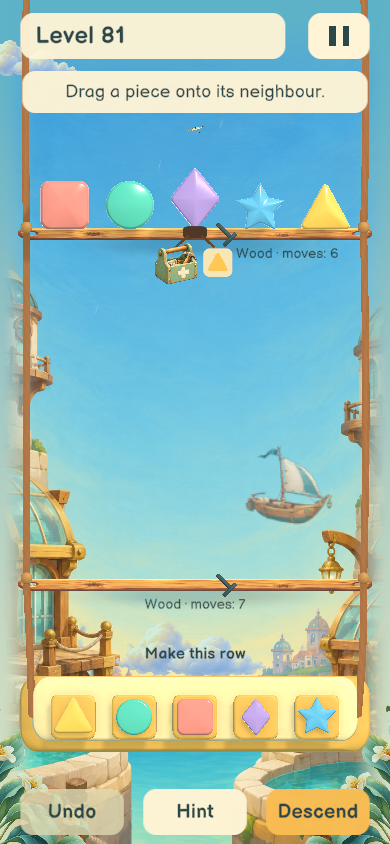
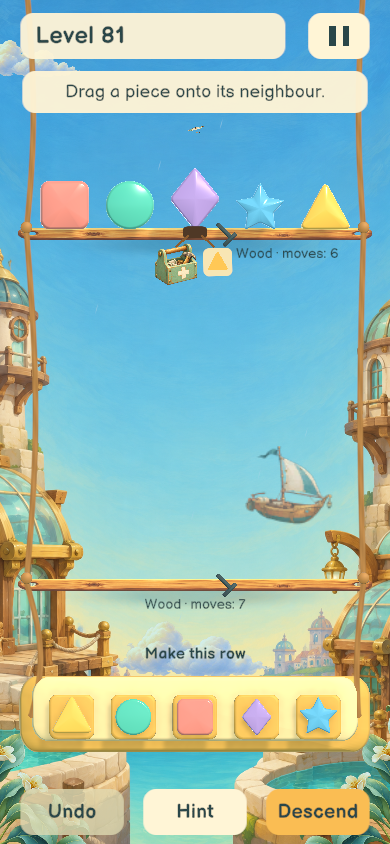
Polish gameplay ropes, letter tiles and backdrop

diff --git a/CascadeUnity/Assets/_Cascade/Presentation/ToyMachineView.Ropes.cs b/CascadeUnity/Assets/_Cascade/Presentation/ToyMachineView.Ropes.cs
@@ -4,30 +4,19 @@ namespace Cascade.Presentation
     public sealed partial class ToyMachineView
     {
         Material continuousRopeMaterial;
-        Texture2D railGrain;
         readonly LineRenderer[] suspension=new LineRenderer[2];
         readonly Vector3[] ropePoints=new Vector3[121];
+        readonly float[,] ropeBow=new float[2,5],ropeVelocity=new float[2,5];
         void InitializeRopeRig()
         {
             if(continuousRopeMaterial==null){
-                railGrain=new Texture2D(128,16,TextureFormat.RGB24,false,true){name="Carved rail grain",wrapMode=TextureWrapMode.Repeat,filterMode=FilterMode.Bilinear};
-                var pixels=new Color32[128*16];
-                for(int y=0;y<16;y++)for(int x=0;x<128;x++){
-                    float grain=Mathf.Sin(y*2.4f+Mathf.Sin(x*.095f+y)*.8f)*.07f+Mathf.Sin(x*.31f+y*.57f)*.025f;
-                    float edge=1-Mathf.Abs(y-7.5f)/7.5f;
-                    float value=Mathf.Clamp01(.76f+grain+edge*.10f);
-                    pixels[y*128+x]=new Color32((byte)(value*255),(byte)(value*228),(byte)(value*190),255);
-                }
-                railGrain.SetPixels32(pixels);railGrain.Apply(false,true);
-                continuousRopeMaterial=new Material(Shader.Find("Universal Render Pipeline/Lit")){name="Carved flexible wooden rails"};
-                continuousRopeMaterial.SetTexture("_BaseMap",railGrain);
-                continuousRopeMaterial.SetColor("_BaseColor",new Color(.66f,.43f,.23f));
-                continuousRopeMaterial.SetFloat("_Smoothness",.29f);
+                continuousRopeMaterial=new Material(Resources.Load<Shader>("CascadeArt/HempRope")){name="Soft braided suspension rope"};
+                continuousRopeMaterial.SetColor("_Color",new Color(.77f,.56f,.31f));
             }
             for(int side=0;side<2;side++) {
-                var go=new GameObject(side==0?"Left articulated wooden rail":"Right articulated wooden rail",typeof(LineRenderer));go.transform.SetParent(machine,false);
+                var go=new GameObject(side==0?"Left braided rope":"Right braided rope",typeof(LineRenderer));go.transform.SetParent(machine,false);
                 var line=go.GetComponent<LineRenderer>();suspension[side]=line;line.sharedMaterial=continuousRopeMaterial;line.useWorldSpace=true;
-                line.generateLightingData=true;line.startWidth=line.endWidth=.086f;line.numCapVertices=8;line.numCornerVertices=8;line.textureMode=LineTextureMode.Tile;line.alignment=LineAlignment.View;
+                line.startWidth=line.endWidth=.09f;line.numCapVertices=8;line.numCornerVertices=8;line.textureMode=LineTextureMode.Stretch;line.alignment=LineAlignment.View;
                 line.shadowCastingMode=UnityEngine.Rendering.ShadowCastingMode.Off;line.receiveShadows=false;
             }
         }
@@ -36,7 +25,6 @@ namespace Cascade.Presentation
             if(floors.Count==0||suspension[0]==null)return;
             for(int side=0;side<2;side++) {
                 var line=suspension[side];line.enabled=Frame.Status==Cascade.Domain.PuzzleStatus.Playing;
-                int pointCount=0;
                 float sign=side==0?-1:1;
                 var first=floors[0].board;float x=first.basePosition.x+sign*first.baseScale.x*.475f;
                 Vector3 previous=new Vector3(x,viewCamera.transform.position.y+viewCamera.orthographicSize+.2f,.10f);int index=0;
@@ -50,15 +38,21 @@ namespace Cascade.Presentation
                         lowerAnchor.GetWorldCorners(corners);next=new Vector3(Mathf.Lerp(corners[0].x,corners[2].x,side==0?.035f:.965f),Mathf.Lerp(corners[0].y,corners[2].y,.48f),.10f);
                     }
                     float span=Vector3.Distance(previous,next);
+                    float wind=reducedMotion?0:Mathf.Sin(windTime*.7f+segment*.64f+side*.5f)*.045f;
+                    float wanted=reducedMotion?0:-sign*.08f+wind+(next.x-previous.x)*.08f;
+                    float bow=ropeBow[side,segment],velocity=ropeVelocity[side,segment];
+                    Spring(ref bow,ref velocity,wanted,28,8,Mathf.Clamp(Time.unscaledDeltaTime,0,.05f));
+                    ropeBow[side,segment]=bow;ropeVelocity[side,segment]=velocity;
                     for(int p=1;p<=24;p++) {
                         float t=p/24f;var point=Vector3.Lerp(previous,next,t);
-                        float wave=reducedMotion?0:Mathf.Sin(windTime*.85f+segment*.7f+side)*.018f*Mathf.Min(1,span);
-                        point.x+=Mathf.Sin(t*Mathf.PI)*(sign*.01f+wave);ropePoints[index++]=point;
+                        point.x+=Mathf.Sin(t*Mathf.PI)*bow;
+                        point.y-=Mathf.Sin(t*Mathf.PI)*Mathf.Min(.07f,span*.035f);
+                        ropePoints[index++]=point;
                     }
                     previous=next;
                 }
-                pointCount=index;line.positionCount=pointCount;
-                for(int p=0;p<pointCount;p++)line.SetPosition(p,ropePoints[p]);
+                line.positionCount=index;
+                for(int p=0;p<index;p++)line.SetPosition(p,ropePoints[p]);
             }
         }
     }

diff --git a/CascadeUnity/Assets/_Cascade/Editor/Playable/PolishCapture.cs b/CascadeUnity/Assets/_Cascade/Editor/Playable/PolishCapture.cs
@@ -19,6 +19,15 @@ namespace Cascade.Editor.Playable
   public static void FinishPass(){if(!EditorApplication.isPlaying||EditorUtility.scriptCompilationFailed||EditorApplication.isCompiling)throw new InvalidOperationException("Compiled Play Mode required");UnityEngine.Object.FindFirstObjectByType<CascadeGame>().StartCoroutine(FinishShots());}
   public static void MenuHeaderCheck(){if(!EditorApplication.isPlaying||EditorUtility.scriptCompilationFailed||EditorApplication.isCompiling)throw new InvalidOperationException("Compiled Play Mode required");UnityEngine.Object.FindFirstObjectByType<CascadeGame>().StartCoroutine(HeaderShots());}
   public static void LagoonCheck(){if(!EditorApplication.isPlaying||EditorUtility.scriptCompilationFailed||EditorApplication.isCompiling)throw new InvalidOperationException("Compiled Play Mode required");UnityEngine.Object.FindFirstObjectByType<CascadeGame>().StartCoroutine(LagoonShot());}
+  public static void SurfaceCheck(){if(!EditorApplication.isPlaying||EditorUtility.scriptCompilationFailed||EditorApplication.isCompiling)throw new InvalidOperationException("Compiled Play Mode required");UnityEngine.Object.FindFirstObjectByType<CascadeGame>().StartCoroutine(SurfaceShots());}
+  static IEnumerator SurfaceShots()
+  {
+   var g=UnityEngine.Object.FindFirstObjectByType<CascadeGame>();Field(g,"persistenceReady",false);g.Feedback.SoundEnabled=g.Feedback.MusicEnabled=false;g.ReducedMotion=false;g.SetUiLocale("en");
+   if(g.Catalog.TryGetLocalizedBinding("C38","en",out var words))g.LoadLevel(words.Definition,"en");else g.LoadNode("C38");g.ShowGame();yield return Shot("surface-letters");
+   g.LoadNode("C81");g.ShowGame();yield return Shot("surface-lagoon");
+   g.LoadNode("C13");g.ShowGame();yield return Shot("surface-devices");
+   Debug.Log("CASCADE surface check: letters, lagoon and devices captured");
+  }
   public static void VerifyOneSwap()
   {
    var g=UnityEngine.Object.FindFirstObjectByType<CascadeGame>();Field(g,"persistenceReady",false);g.LoadNode("C13");g.ShowGame();g.SendMessage("OnApplicationFocus",true);g.Interaction.SetSuspended(false);
@@ -79,7 +88,7 @@ namespace Cascade.Editor.Playable
     for(int frame=0;frame<32;frame++){
      yield return new WaitForEndOfFrame();camera.Render();RenderTexture.active=rt;pixels.ReadPixels(new Rect(0,0,390,844),0,0);pixels.Apply();
      File.WriteAllBytes(Path.Combine(folder,frame.ToString("00")+".png"),pixels.EncodeToPNG());
-     int points=g.Machine.GetComponentsInChildren<LineRenderer>().First(l=>l.name.Contains("wooden rail")).positionCount;
+     int points=g.Machine.GetComponentsInChildren<LineRenderer>().First(l=>l.name.Contains("braided rope")).positionCount;
      rows.AppendLine(frame+","+g.GetComponent<PuzzleEventPlayer>().CurrentEvent+","+g.Machine.TokenPose(0)+","+g.Machine.LoadedSag+","+points+","+g.Interaction.Attempt.CurrentStateHash);
      if(g.Interaction.Attempt.CurrentStateHash!=committed)throw new InvalidOperationException("Animation changed the committed puzzle state");
      yield return null;

diff --git a/CascadeUnity/Assets/_Cascade/Presentation/CascadeGame.Devices.cs b/CascadeUnity/Assets/_Cascade/Presentation/CascadeGame.Devices.cs
@@ -15,6 +15,8 @@ namespace Cascade.Presentation
             public Image icon;
             public TextMeshProUGUI caption;
             public ContactDefinition contact;
+            public float slotX,dockX,angle,angleVelocity;
+            public DemoLine leftStrap,rightStrap;
         }
         readonly List<RectTransform> deviceOverlays=new List<RectTransform>();
         readonly List<DeviceDock> deviceDocks = new List<DeviceDock>();
@@ -40,10 +42,12 @@ namespace Cascade.Presentation
                 // A wooden socket and its suspended tool share a real attachment point.
                 var socket=Rect("Device socket",card,new Vector2(slotX-.034f,.295f),new Vector2(slotX+.034f,.39f));
                 Background(socket,new Color(.31f,.22f,.15f),false).sprite=art.panel;
+                DemoLine leftStrap=null,rightStrap=null;
                 for(int side=-1;side<=1;side+=2) {
                     var strap=Rect("Device leather strap",card,Vector2.zero,Vector2.zero);
-                    Background(strap,new Color(.40f,.27f,.15f),false);
-                    strap.gameObject.AddComponent<DemoLine>().Initialize(card,new Vector2(slotX+side*.018f,.32f),new Vector2(x+side*.055f,.23f),2.5f);
+                    Background(strap,new Color(.55f,.36f,.18f),false);
+                    var line=strap.gameObject.AddComponent<DemoLine>();line.Initialize(card,new Vector2(slotX+side*.018f,.32f),new Vector2(x+side*.055f,.23f),2.2f);
+                    if(side<0)leftStrap=line;else rightStrap=line;
                 }
                 var button=Button(UiCopy.Raw("Device "+DeviceAsset(item.kind)),card,new Vector2(x,.07f),new Vector2(x,.07f),()=>OpenDevice(item.kind));
                 var root=(RectTransform)button.transform;root.sizeDelta=new Vector2(88,55);
@@ -55,7 +59,7 @@ namespace Cascade.Presentation
                 face.SetShape(art.SymbolMesh(item.contact.RequiredSymbol),art.SymbolMaterial(item.contact.RequiredSymbol).GetColor("_BaseColor"));face.raycastTarget=false;
                 if(item.contact.RequiredSymbol.Kind==SymbolKind.Glyph)Text("Required letter",pocket,Vector2.zero,Vector2.one,18,UiCopy.Raw(FaceText(item.contact.RequiredSymbol)));
                 var caption=Text("Device state",root,new Vector2(-.08f,-.03f),new Vector2(1.08f,.24f),12,"");caption.font=art.titleFont;
-                deviceDocks.Add(new DeviceDock{floor=floorIndex,kind=item.kind,root=root,icon=icon,caption=caption,contact=item.contact});
+                deviceDocks.Add(new DeviceDock{floor=floorIndex,kind=item.kind,root=root,icon=icon,caption=caption,contact=item.contact,slotX=slotX,dockX=x,leftStrap=leftStrap,rightStrap=rightStrap});
             }
             UiCopy landing=floor.EntryTransform==EntryTransform.MirrorNext?"Reverse on landing":floor.EntryTransform==EntryTransform.ShiftLeftOne?"Slide left on landing":"Slide right on landing";
             if(floor.EntryTransform!=EntryTransform.None||floor.LinkedPair.HasValue) {

diff --git a/CascadeUnity/Assets/_Cascade/Presentation/CascadeGame.cs b/CascadeUnity/Assets/_Cascade/Presentation/CascadeGame.cs
@@ -266,13 +266,16 @@ namespace Cascade.Presentation
             if(glyphMaterial==null){
                 glyphMaterial=new Material(art.titleFont.material){name="Raised ink on ivory"};
                 glyphMaterial.EnableKeyword("UNDERLAY_ON");
-                glyphMaterial.SetColor("_UnderlayColor",new Color(.29f,.19f,.10f,.62f));
-                glyphMaterial.SetFloat("_UnderlayOffsetX",.08f);
-                glyphMaterial.SetFloat("_UnderlayOffsetY",-.13f);
-                glyphMaterial.SetFloat("_UnderlaySoftness",.09f);
+                glyphMaterial.SetColor("_UnderlayColor",new Color(.30f,.22f,.13f,.95f));
+                glyphMaterial.SetFloat("_UnderlayOffsetX",.27f);
+                glyphMaterial.SetFloat("_UnderlayOffsetY",-.35f);
+                glyphMaterial.SetFloat("_UnderlayDilate",.20f);
+                glyphMaterial.SetFloat("_UnderlaySoftness",0);
             }
             label.fontSharedMaterial=glyphMaterial;
             label.fontStyle=FontStyles.Bold;
+            label.alignment=TextAlignmentOptions.Midline;
+            label.margin=new Vector4(0,8,0,0);
             label.enableVertexGradient=true;
             label.colorGradient=new VertexGradient(new Color(.29f,.39f,.36f),new Color(.29f,.39f,.36f),new Color(.10f,.22f,.23f),new Color(.10f,.22f,.23f));
         }
@@ -300,9 +303,9 @@ namespace Cascade.Presentation
             floorArea = Rect("Floors", safeRoot, new Vector2(.045f, .37f), new Vector2(.955f, .78f));
             receiver = Rect("Receiver", safeRoot, new Vector2(.5f, .245f), new Vector2(.5f, .365f)); receiver.sizeDelta = new Vector2(350, 0); Background(receiver, Color.clear, true);
             receiver.gameObject.AddComponent<UnityEngine.UI.Button>().onClick.AddListener(ToggleTargetZoom);
-            receiverLabel = Text("ReceiverLabel", receiver, new Vector2(.02f, .94f), new Vector2(.98f, 1.22f), 16, "Make this row"); receiverLabel.font = art.titleFont;
+            receiverLabel = Text("ReceiverLabel", receiver, new Vector2(0, .94f), new Vector2(1, 1.22f), 16, "Make this row"); receiverLabel.font = art.titleFont;receiverLabel.alignment=TextAlignmentOptions.Center;
             wrongRowLabel = Text("Your row", receiver, new Vector2(.02f,-.69f),new Vector2(.98f,-.46f),15,"Your row"); wrongRowLabel.gameObject.SetActive(false);
-            targetRow = Rect("TargetRow", receiver, new Vector2(.07f, .20f), new Vector2(.93f, .70f));
+            targetRow = Rect("TargetRow", receiver, new Vector2(.065f, .20f), new Vector2(.935f, .70f));
             precise = Rect("PreciseInput", safeRoot, new Vector2(.05f, .09f), new Vector2(.95f, .225f));
             DirectionButton("Focus previous", precise, new Vector2(0, 56f/104), new Vector2(.2f, 1), false, () => MoveFocus(-1));
             focusLabel = Text("Focus", precise, new Vector2(.22f, 56f/104), new Vector2(.78f, 1), 20, "Choose a symbol");

diff --git a/CascadeUnity/Assets/_Cascade/Presentation/ToyMachineView.Finish.cs b/CascadeUnity/Assets/_Cascade/Presentation/ToyMachineView.Finish.cs
@@ -21,20 +21,22 @@ namespace Cascade.Presentation
                 material.EnableKeyword("_CLEARCOAT");
                 candyMaterials[i] = material;
             }
-            letterMaterial = new Material(art.cream) { name = "Warm grained letter tile" };
+            letterMaterial = new Material(art.cream) { name = "Glazed ivory letter tile" };
             letterMaterial.SetFloat("_Metallic", .015f);
-            letterMaterial.SetFloat("_Smoothness", .48f);
-            letterMaterial.SetFloat("_ClearCoatMask", .18f);
-            letterMaterial.SetFloat("_ClearCoatSmoothness", .62f);
+            letterMaterial.SetFloat("_Smoothness", .68f);
+            letterMaterial.SetFloat("_ClearCoatMask", .38f);
+            letterMaterial.SetFloat("_ClearCoatSmoothness", .82f);
             letterMaterial.EnableKeyword("_CLEARCOAT");
-            // Quiet fibre and diagonal grain are visible on the ivory tile without competing with its letter.
-            letterGrain = new Texture2D(96, 96, TextureFormat.RGB24, false, true) { name = "Letter tile fibre", wrapMode = TextureWrapMode.Repeat, filterMode = FilterMode.Bilinear };
-            var pixels = new Color32[96 * 96];
-            for (int y = 0; y < 96; y++) for (int x = 0; x < 96; x++) {
-                float line = Mathf.Sin((x + y * .37f) * .52f) * .017f;
-                float fibre = Mathf.Sin(x * 1.73f + y * 2.11f) * .009f;
-                byte shade = (byte)Mathf.RoundToInt(Mathf.Clamp01(.967f + line + fibre) * 255);
-                pixels[y * 96 + x] = new Color32(shade, shade, shade, 255);
+            // Soft marbled ceramic, kept broad enough to survive phone downsampling.
+            letterGrain = new Texture2D(128, 128, TextureFormat.RGB24, true, false) { name = "Warm ivory glaze", wrapMode = TextureWrapMode.Clamp, filterMode = FilterMode.Trilinear };
+            var pixels = new Color32[128 * 128];
+            for (int y = 0; y < 128; y++) for (int x = 0; x < 128; x++) {
+                float u=x/127f,v=y/127f;
+                float swirl=Mathf.Sin(u*11f+v*4.5f+Mathf.Sin(v*8f)*.8f)*.035f;
+                float cream=Mathf.Sin(u*5f-v*7f)*.025f;
+                float grain=Mathf.Sin(x*.71f+y*.24f)*.007f;
+                float shade=Mathf.Clamp01(.95f+swirl+cream+grain);
+                pixels[y * 128 + x] = new Color32((byte)(shade*255),(byte)(shade*250),(byte)(shade*226),255);
             }
             letterGrain.SetPixels32(pixels); letterGrain.Apply(false, true);
             letterMaterial.SetTexture("_BaseMap", letterGrain);

diff --git a/CascadeUnity/Assets/_Cascade/Presentation/CascadeGame.Woodland.cs b/CascadeUnity/Assets/_Cascade/Presentation/CascadeGame.Woodland.cs
@@ -12,6 +12,18 @@ namespace Cascade.Presentation
             if(machine==null||Interaction==null)return;
             machine.TickWoodDynamics(Time.unscaledDeltaTime);
             for(int i=0;i<deviceOverlays.Count;i++)deviceOverlays[i].position=floorViews[i].position+machine.FloorVisualOffset(i);
+            float dt=Mathf.Clamp(Time.unscaledDeltaTime,0,.05f);
+            foreach(var dock in deviceDocks) {
+                if(dock.root==null||!dock.root.gameObject.activeSelf)continue;
+                float target=ReducedMotion?0:Mathf.Sin(machine.AmbientPhase*.95f+dock.floor*.8f+dock.dockX*3f)*2.3f-machine.FloorVisualOffset(dock.floor).x*13f;
+                dock.angleVelocity+=(target-dock.angle)*65f*dt;
+                dock.angleVelocity*=Mathf.Exp(-11f*dt);
+                dock.angle+=dock.angleVelocity*dt;
+                dock.root.localRotation=Quaternion.Euler(0,0,dock.angle);
+                float drift=Mathf.Sin(dock.angle*Mathf.Deg2Rad)*.025f;
+                dock.leftStrap?.SetEndpoints(new Vector2(dock.slotX-.018f,.32f),new Vector2(dock.dockX-.055f+drift,.23f));
+                dock.rightStrap?.SetEndpoints(new Vector2(dock.slotX+.018f,.32f),new Vector2(dock.dockX+.055f+drift,.23f));
+            }
             for(int i=0;i<tokenLabels.Count;i++) {
                 var rect=tokenLabels[i].rectTransform;var position=machine.TokenVisualPosition(i);position.z=rect.position.z;rect.position=position;
                 rect.rotation=Quaternion.Euler(0,0,machine.TokenVisualAngle(i));

diff --git a/CascadeUnity/Assets/_Cascade/Presentation/LayeredWorld.cs b/CascadeUnity/Assets/_Cascade/Presentation/LayeredWorld.cs
@@ -96,10 +96,9 @@ namespace Cascade.Presentation
             float cx=cameraView.transform.position.x,cy=cameraView.transform.position.y;
             var texture=landscapeMaterial.mainTexture;float ratio=(float)texture.width/texture.height;
             landscape.position=new Vector3(cx,cy,3.2f);landscape.localScale=new Vector3(w,h,1);
-            // One continuous sky surface. Preserve full artwork; softly extend its edges instead of stitching strips.
-            float imageHeight=workshop?Mathf.Max(1,w/ratio/h):zone==0&&panorama!=null?Mathf.Min(1,w/ratio/h):1;
-            float imageWidth=workshop?Mathf.Max(1,h*ratio/w):zone==0&&panorama!=null?1:Mathf.Min(1,h*ratio/w);
-            landscapeMaterial.SetVector("_ImageRect",new Vector4((1-imageWidth)*.5f,0,imageWidth,imageHeight));
+            // Fill every aspect ratio with the artwork instead of fading its sides.
+            float imageHeight=Mathf.Max(1,w/ratio/h),imageWidth=Mathf.Max(1,h*ratio/w);
+            landscapeMaterial.SetVector("_ImageRect",new Vector4((1-imageWidth)*.5f,(1-imageHeight)*.5f,imageWidth,imageHeight));
             ActiveWeatherCount=0;
             for(int i=0;i<weather.Length;i++) {
                 var drop=weather[i];bool snow=zone==6;bool rain=zone==1||zone==4;bool pollen=zone==0||zone==2||zone==5;

diff --git a/CascadeUnity/Assets/_Cascade/Presentation/DemoLine.cs b/CascadeUnity/Assets/_Cascade/Presentation/DemoLine.cs
@@ -6,6 +6,7 @@ namespace Cascade.Presentation
     {
         RectTransform root,line;Vector2 start,end;float thickness;Vector2 lastSize;
         public void Initialize(RectTransform parent,Vector2 a,Vector2 b,float width){root=parent;line=(RectTransform)transform;start=a;end=b;thickness=width;line.anchorMin=line.anchorMax=(a+b)*.5f;line.anchoredPosition=Vector2.zero;Paint();}
+        public void SetEndpoints(Vector2 a,Vector2 b){start=a;end=b;line.anchorMin=line.anchorMax=(a+b)*.5f;Paint();}
         void LateUpdate(){if(root.rect.size!=lastSize)Paint();}
         void Paint(){lastSize=root.rect.size;var delta=Vector2.Scale(end-start,lastSize);line.sizeDelta=new Vector2(delta.magnitude,thickness);line.localRotation=Quaternion.Euler(0,0,Mathf.Atan2(delta.y,delta.x)*Mathf.Rad2Deg);}
     }

diff --git a/CascadeUnity/Assets/_Cascade/Presentation/ToyMachineView.Woodland.cs b/CascadeUnity/Assets/_Cascade/Presentation/ToyMachineView.Woodland.cs
@@ -114,7 +114,7 @@ namespace Cascade.Presentation
         }
         void OnDestroy()
         {
-            if(continuousRopeMaterial!=null)Destroy(continuousRopeMaterial);if(railGrain!=null)Destroy(railGrain);if(woodMaterial!=null)Destroy(woodMaterial);if(ropeMaterial!=null)Destroy(ropeMaterial);
+            if(continuousRopeMaterial!=null)Destroy(continuousRopeMaterial);if(woodMaterial!=null)Destroy(woodMaterial);if(ropeMaterial!=null)Destroy(ropeMaterial);
             DisposePieceMaterials();
             foreach(var mesh in woodMeshes)if(mesh!=null)Destroy(mesh);
         }

diff --git a/TASKS.md b/TASKS.md
@@ -1,5 +1,7 @@
 # CASCADE — TASKS
 
+Surface correction, 5 октября 2026: вместо фактурной деревянной линии — непрерывная мягко затенённая верёвка с пружинным прогибом между креплениями; её край смягчён на телефонном разрешении. Дощечки букв получили широкую глазурную текстуру и более ясный блик, буквы оптически центрированы и имеют жёсткий смещённый подслой; их перемещение по-прежнему идёт тем же tween/pose, что у фигур. Подвесные устройства теперь слегка качаются на двух обновляемых ремнях. Цель и подпись выставлены симметрично. Убрано шейдерное затуманивание боков: фон закрывает экран единым изображением с центральным кропом. Через Unity MCP осмотрены C38, C81 и C13 на 390×844 (Reports/Polish/surface-letters.png, surface-devices.png, finish-lagoon.png); compilation PASS, Console 0 errors/warnings, один атомарный обмен сохранил multiset. Это косметическая пружинная симуляция, не Rigidbody/rope solver; настоящие устройства и человеческая оценка тактильности NOT RUN. Новый player build не делали.
+
 UI/material follow-up, 5 октября 2026: деревянные боковые рейки связывают доски и приёмник; формы получили лаковый блик от Lit-материалов, буквы — лёгкое волокно и рельефную тень, доски принимают мягкую тень от направленного света. Увеличен планер, карта получила читаемую метку текущего острова и ровный верхний бар, меню — иллюстрированный вид из мастерской и тихую пыль, а пауза и настройки — Мику. Для Лагуны сгенерирован отдельный полупрозрачный небесный кораблик, медленно качающийся за платформами; текстура ограничена 512px при импорте. Плашка уровня отделяет текст от опор; цель поднята над приёмником на узком экране. 8 прицельных кадров через Unity MCP: Reports/Polish/finish-*.png; дополнительно повторно осмотрены три меню с иллюстрированной шапкой. Один focused swap: 1 атомарный ход, multiset сохранён, анимация закончилась Resting; Console 0 ошибок после перезапуска Play Mode и в Лагуне. Реальные iPhone/Android, измерение FPS и человеческая оценка удовольствия не выполнялись; нового player build не делали по просьбе автора об экономии проверок.
 
 UI/motion polish: IMPLEMENTED + VERIFIED локально — единые меню, читаемые языки и счётчики, акцент действий, плавные канаты с объёмной оплёткой, сохранение веса доски, мягкая посадка/погода/переходы. 47 native stills +32 motion frames;15 distinct PlayMode cases имеют passing evidence, финальный affected run4/4 PASS (13×4 interruption paths). Первоначальные watchdog failures сохранены: измерен Editor1Hz, функциональный watchdog30s; это не performancePASS. Одна новая CASCADE-Polish.app:0errors/346 existing warnings. Mac locked; foreground player и physical devices NOTRUN. Reports/Polish/README.md.
